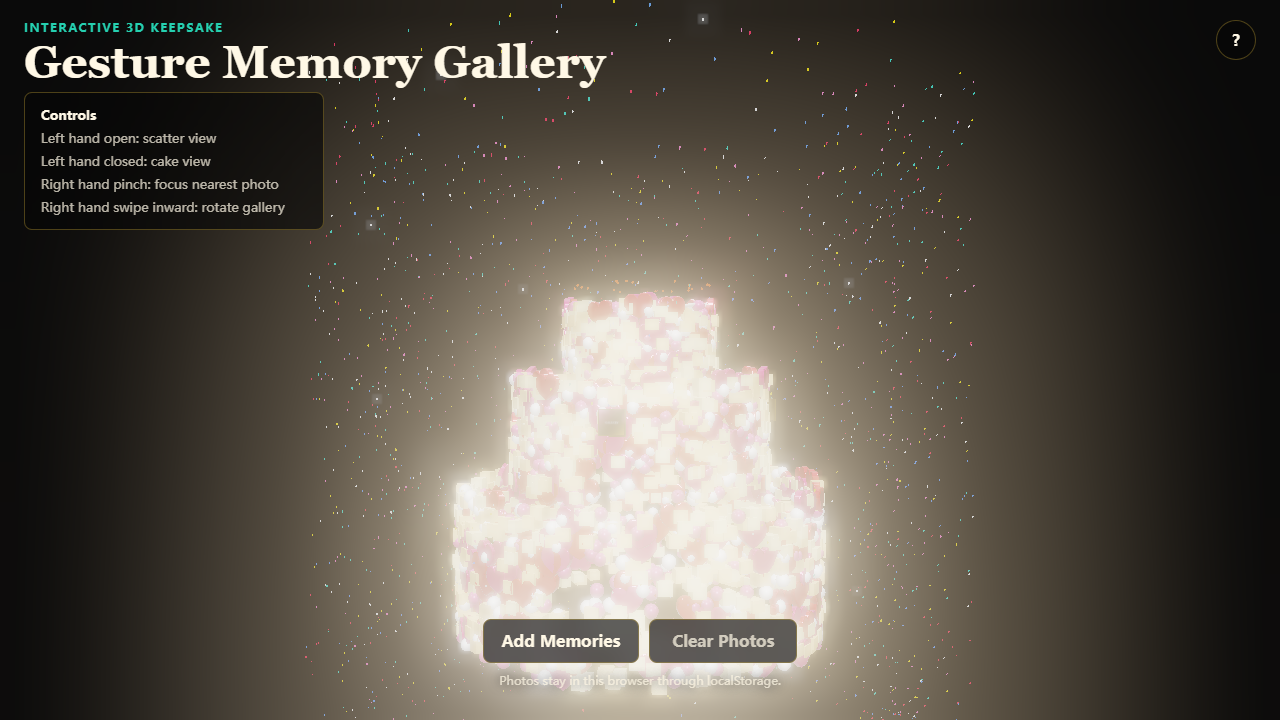
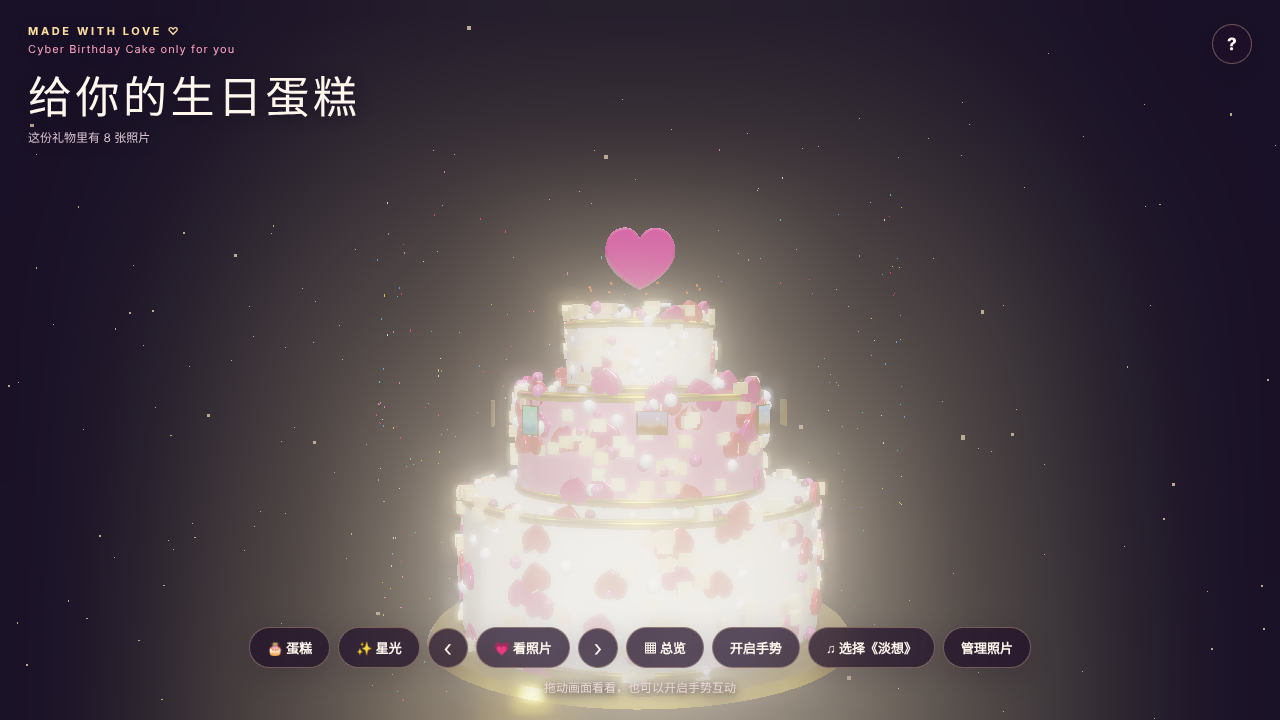
更新截图：当前生日蛋糕版本的蛋糕、星光、看照片、总览和手机端
截图使用示意照片，不含私人照片。

Claude-Session: https://claude.ai/code/session_018xLtY7uJG54UFxJiF7FPd9

diff --git a/README.md b/README.md
@@ -8,9 +8,15 @@
 ![JavaScript](https://img.shields.io/badge/JavaScript-F7DF1E?style=flat-square&logo=javascript&logoColor=black)
 
 <p align="center">
-  <img src="docs/assets/preview-desktop.png" width="72%" alt="桌面端预览" />
-  <img src="docs/assets/preview-mobile.png" width="20%" alt="手机端预览" />
+  <img src="docs/assets/preview-desktop.png" width="72%" alt="桌面端：粒子蛋糕主场景" />
+  <img src="docs/assets/preview-mobile.png" width="20%" alt="手机端：粒子蛋糕主场景" />
 </p>
+
+| ✨ 星光：照片散开 | 💗 看照片：聚焦单张 | ▦ 总览：一次看全部 |
+| --- | --- | --- |
+| ![星光模式](docs/assets/preview-scatter.jpg) | ![看照片模式](docs/assets/preview-focus.jpg) | ![照片总览](docs/assets/preview-overview.jpg) |
+
+<sub>截图中的照片为示意图，真实照片只保存在本地。</sub>
 
 ## 为什么做
 
